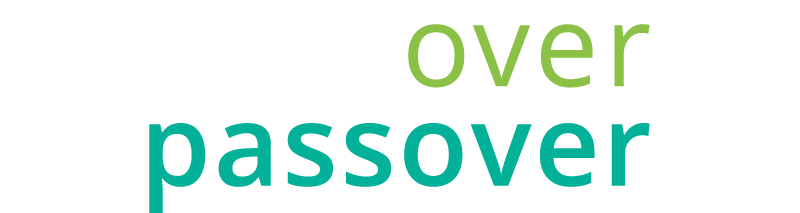
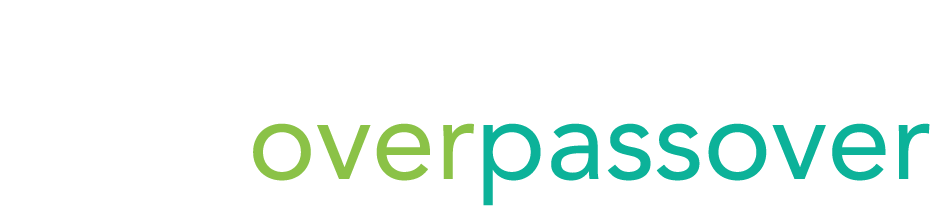
Automated commit at 2016-05-08 23:09:14 UTC by middleman-deploy 2.0.0-alpha

Changed region(s): [[0.1875, 0.5534, 1.0, 1.0], [0.5, 0.1165, 0.8125, 0.4078]]

diff --git a/assets/stylesheets/application.css b/assets/stylesheets/application.css
@@ -4,7 +4,7 @@
  * 2. Prevent iOS text size adjust after orientation change, without disabling
  *    user zoom.
  */
-@import url(https://fonts.googleapis.com/css?family=Source+Sans+Pro:400,400italic,600|Titillium+Web);
+@import url(https://fonts.googleapis.com/css?family=Source+Sans+Pro:300,400,400italic,600);
 html {
   font-family: sans-serif;
   /* 1 */
@@ -509,14 +509,15 @@ h3,
 h4,
 h5,
 h6 {
-  font-family: "Titillium Web", "Source Sans Pro", "Helvetica Neue", "Helvetica", "Roboto", "Arial", sans-serif;
-  font-size: 2.5em;
+  font-family: "Source Sans Pro", "Helvetica Neue", "Helvetica", "Roboto", "Arial", sans-serif;
+  font-size: 2em;
   font-weight: 400;
   line-height: 1.2;
   margin: 0 0 0.75em; }
 
 p {
-  margin: 0 0 0.75em; }
+  margin: 0 0 0.75em;
+  font-weight: 300; }
 
 a {
   color: #03b198;
@@ -614,7 +615,8 @@ body {
     margin: 0 auto;
     overflow: visible;
     padding: 0;
-    width: 100%; }
+    width: 100%;
+    text-transform: uppercase; }
     @media screen and (min-width: 600px) {
       .navigation ul.navigation-menu {
         display: inline;
@@ -648,10 +650,11 @@ body {
       color: #58585b; }
 
 .footer {
-  background: #bababf;
+  background: #58585b;
   display: inline-block;
   padding: 1.5em;
-  width: 100%; }
+  width: 100%;
+  text-align: center; }
   .footer .footer-wrapper {
     max-width: 1200px;
     margin-left: auto;
@@ -665,6 +668,7 @@ body {
       content: "";
       display: table; }
   .footer .copy {
+    color: #bababf;
     display: inline-block; }
     @media screen and (min-width: 600px) {
       .footer .copy {
@@ -687,34 +691,39 @@ body {
         display: inline;
         text-align: left; } }
   .footer ul li a {
-    color: rgba(88, 88, 91, 0.4);
+    color: rgba(186, 186, 191, 0.5);
     text-decoration: none; }
     .footer ul li a:hover, .footer ul li a:focus {
-      color: #58585b; }
-  @media screen and (min-width: 600px) {
-    .footer .footer-secondary {
-      float: right; } }
-  .footer .footer-secondary li {
-    font-size: 0.8em; }
-  .footer .footer-secondary ul.footer-social {
-    margin: 1em 0 0 0; }
+      color: #bababf; }
+  .footer .footer-secondary {
+    text-align: center; }
     @media screen and (min-width: 600px) {
-      .footer .footer-secondary ul.footer-social {
-        float: right;
-        margin-top: 0; } }
-    .footer .footer-secondary ul.footer-social li {
-      float: left;
-      font-size: 1em;
-      line-height: 0;
-      margin: 0;
-      padding-right: 0.7em; }
-      .footer .footer-secondary ul.footer-social li:last-child {
-        padding-right: 0; }
-      .footer .footer-secondary ul.footer-social li a {
-        text-decoration: none;
-        color: rgba(88, 88, 91, 0.4); }
-        .footer .footer-secondary ul.footer-social li a:hover, .footer .footer-secondary ul.footer-social li a:focus {
-          color: #58585b; }
+      .footer .footer-secondary {
+        float: right; } }
+    .footer .footer-secondary li {
+      font-size: 0.8em; }
+    .footer .footer-secondary ul.footer-social {
+      margin: 1em 0 0 0; }
+      @media screen and (min-width: 600px) {
+        .footer .footer-secondary ul.footer-social {
+          float: right;
+          margin-top: 0; } }
+      .footer .footer-secondary ul.footer-social li {
+        display: inline-block;
+        font-size: 1em;
+        line-height: 0;
+        margin: 0;
+        padding-right: 0.7em; }
+        @media screen and (min-width: 600px) {
+          .footer .footer-secondary ul.footer-social li {
+            float: left; } }
+        .footer .footer-secondary ul.footer-social li:last-child {
+          padding-right: 0; }
+        .footer .footer-secondary ul.footer-social li a {
+          text-decoration: none;
+          color: rgba(186, 186, 191, 0.5); }
+          .footer .footer-secondary ul.footer-social li a:hover, .footer .footer-secondary ul.footer-social li a:focus {
+            color: #bababf; }
 
 .hero {
   margin-top: 60px;
@@ -763,12 +772,39 @@ body {
     text-align: center;
     color: white; }
     .hero .hero-content .hero-text {
-      font-size: 2em; }
+      font-family: "Source Sans Pro", "Helvetica Neue", "Helvetica", "Roboto", "Arial", sans-serif; }
+    .hero .hero-content .hero-btns {
+      float: left;
+      display: block;
+      margin-right: 2.35765%;
+      width: 65.88078%;
+      margin-left: 17.05961%;
+      margin-top: 1em; }
+      .hero .hero-content .hero-btns:last-child {
+        margin-right: 0; }
+      .hero .hero-content .hero-btns .hero-btn {
+        padding: 1.3em;
+        margin: 0.5em;
+        color: white;
+        font-size: 1.2em;
+        text-transform: uppercase;
+        display: inline-block;
+        max-width: 10em; }
+        .hero .hero-content .hero-btns .hero-btn#mailchimp-btn {
+          background: #8cc147; }
+          .hero .hero-content .hero-btns .hero-btn#mailchimp-btn:hover, .hero .hero-content .hero-btns .hero-btn#mailchimp-btn:focus {
+            background: #a4ce6d; }
+        .hero .hero-content .hero-btns .hero-btn#contact-btn {
+          background: #03b198; }
+          .hero .hero-content .hero-btns .hero-btn#contact-btn:hover, .hero .hero-content .hero-btns .hero-btn#contact-btn:focus {
+            background: #04e3c3; }
 
 .section {
   padding-top: 5em;
   padding-bottom: 5em;
-  width: 100%; }
+  width: 100%;
+  padding-right: 1em;
+  padding-left: 1em; }
   .section#about {
     background-color: #e18144;
     color: white; }
@@ -789,39 +825,48 @@ body {
     text-align: center; }
   .section .section-text {
     font-size: 1.4em; }
-  .section .section-wrapper .grid-item-lines::after {
-    clear: both;
-    content: "";
-    display: table; }
-  .section .section-wrapper .grid-item-lines .event-box {
-    background: rgba(88, 88, 91, 0.6);
-    float: left;
-    height: 14em;
-    outline: none;
-    overflow: hidden;
-    padding: 2em;
-    text-decoration: none;
-    color: white;
-    -webkit-transition: all 0.2s ease-in-out;
-    transition: all 0.2s ease-in-out;
-    text-align: center;
-    float: left;
-    display: block;
-    margin-right: 2.35765%;
-    width: 100%; }
-    .section .section-wrapper .grid-item-lines .event-box:last-child {
-      margin-right: 0; }
-    @media screen and (min-width: 600px) {
-      .section .section-wrapper .grid-item-lines .event-box {
-        float: left;
-        display: block;
-        margin-right: 2.35765%;
-        width: 48.82117%; }
-        .section .section-wrapper .grid-item-lines .event-box:last-child {
-          margin-right: 0; } }
-    .section .section-wrapper .grid-item-lines .event-box:focus, .section .section-wrapper .grid-item-lines .event-box:hover {
-      background: #58585b; }
-    .section .section-wrapper .grid-item-lines .event-box img {
-      display: block;
+  .section .section-wrapper .grid-item-lines {
+    text-align: center; }
+    .section .section-wrapper .grid-item-lines::after {
+      clear: both;
+      content: "";
+      display: table; }
+    .section .section-wrapper .grid-item-lines .event-box {
+      display: inline-block;
+      outline: none;
+      overflow: hidden;
+      text-decoration: none;
+      padding: 1em 2em 1.5em 1.5em;
+      color: white;
+      -webkit-transition: all 0.2s ease-in-out;
+      transition: all 0.2s ease-in-out;
       width: 75%;
-      margin: 1em auto; }
+      background: #58585b; }
+      @media screen and (min-width: 600px) {
+        .section .section-wrapper .grid-item-lines .event-box {
+          display: inline-block;
+          width: 30%;
+          margin-top: 1em;
+          margin-right: 2em;
+          margin-left: 2em; } }
+      .section .section-wrapper .grid-item-lines .event-box:focus, .section .section-wrapper .grid-item-lines .event-box:hover {
+        background: rgba(88, 88, 91, 0.7); }
+      .section .section-wrapper .grid-item-lines .event-box img {
+        display: block;
+        width: 80%;
+        margin: 1em auto; }
+  @media screen and (min-width: 600px) {
+    .section .contact-form {
+      float: left;
+      display: block;
+      margin-right: 2.35765%;
+      width: 65.88078%;
+      margin-left: 17.05961%; }
+      .section .contact-form:last-child {
+        margin-right: 0; } }
+  .section .contact-form #contact-form {
+    color: #58585b; }
+    .section .contact-form #contact-form input[type="submit"] {
+      background: #58585b; }
+      .section .contact-form #contact-form input[type="submit"]:hover, .section .contact-form #contact-form input[type="submit"]:focus {
+        background: #717175; }

diff --git a/index.html b/index.html
@@ -37,19 +37,23 @@
     <div class='hero'>
       <div class='hero-wrapper'>
         <div class='hero-content'>
-          <h1 class='hero-text'>Hackathonukah creates opportunities for technology-minded people to learn new skills in a collaborative, engaging, and overwhelmingly-themed social environment.</h1>
+          <h1 class='hero-text'>Hackathonukah creates themed opportunities for tech-minded people to learn new skills in a fun, collaborative, and engaging environment.</h1>
+          <div class='hero-btns'>
+            <a class='hero-btn' href='http://eepurl.com/40ReD' id='mailchimp-btn'>Sign up for updates</a>
+            <a class='hero-btn' href='#contact' id='contact-btn'>Contact us for more info</a>
+          </div>
         </div>
       </div>
     </div>
     <div class='section' id='about'>
       <div class='section-wrapper'>
-        <h1 class='section-title'>About Us</h1>
-        <p class='section-text'>We're two brothers who couldn't go to hackathons on Saturdays so now we organize them, plain and simple.</p>
+        <h1 class='section-title'>We're two brothers who couldn't go to hackathons on Saturdays. <br />Now we organize them.</h1>
+        <p class='section-text'>Hackathonukah was born when Donny and Oren Kanner decided to "solve their own problem," namely, the lack of Sabbath observer friendly hackathons, and created the Hackathon of Lights. We're passionate about creating engaging events accessible to people of all backgrounds and technical skill levels. Our goal is to build a community that appreciates excessive puns, continuous learning, and doesn't take itself too seriously.</p>
       </div>
     </div>
     <div class='section' id='events'>
       <div class='section-wrapper'>
-        <h1 class='section-title'>Our Events</h1>
+        <h1 class='section-title'>An artisanally-crafted selection of our past events.</h1>
         <div class='grid-item-lines'>
           <a class='event-box' href='2014' id='hackathonukah2014'>
             <img alt='Hackathonukah 2014' src='assets/images/hackathonukah2014.png'>
@@ -64,7 +68,17 @@
     </div>
     <div class='section' id='contact'>
       <div class='section-wrapper'>
-        <h1 class='section-title'>Contact Us</h1>
+        <h1 class='section-title'>Ask a question, give a suggestion, or just say hello.</h1>
+        <div class='contact-form'>
+          <form action='https://formspree.io/hackathonukah@gmail.com' id='contact-form' method='POST'>
+            <input name='_subject' type='hidden' value='Contact Form Submission'>
+            <input name='_gotcha' style='display: none;' type='text'>
+            <input name='name' placeholder='Your Name' required type='text'>
+            <input name='_replyto' placeholder='Your E-mail' required type='text'>
+            <textarea cols='30' name='message' placeholder='Your message goes here, bonus points if you include a pun!' required rows='6'></textarea>
+            <input type='submit' value='Send'>
+          </form>
+        </div>
       </div>
     </div>
     <footer class='footer' role='contentinfo'>
@@ -86,7 +100,7 @@
         </div>
       </div>
     </footer>
-    <script src="https://code.jquery.com/jquery-2.1.1.min.js"></script>
+    <script src="https://code.jquery.com/jquery-2.2.3.min.js"></script>
     <script src="assets/javascripts/application.js"></script>
     <script type="text/javascript">
       var _gaq = _gaq || [];

diff --git a/assets/javascripts/application.js b/assets/javascripts/application.js
@@ -1,3 +1,7 @@
+(function() {
+
+
+}).call(this);
 $(document).ready(function() {
   var menuToggle = $('#js-mobile-menu').unbind();
   $('#js-navigation-menu').removeClass("show");

diff --git a/assets/javascripts/contact-form.js b/assets/javascripts/contact-form.js
@@ -1,0 +1,4 @@
+(function() {
+
+
+}).call(this);
